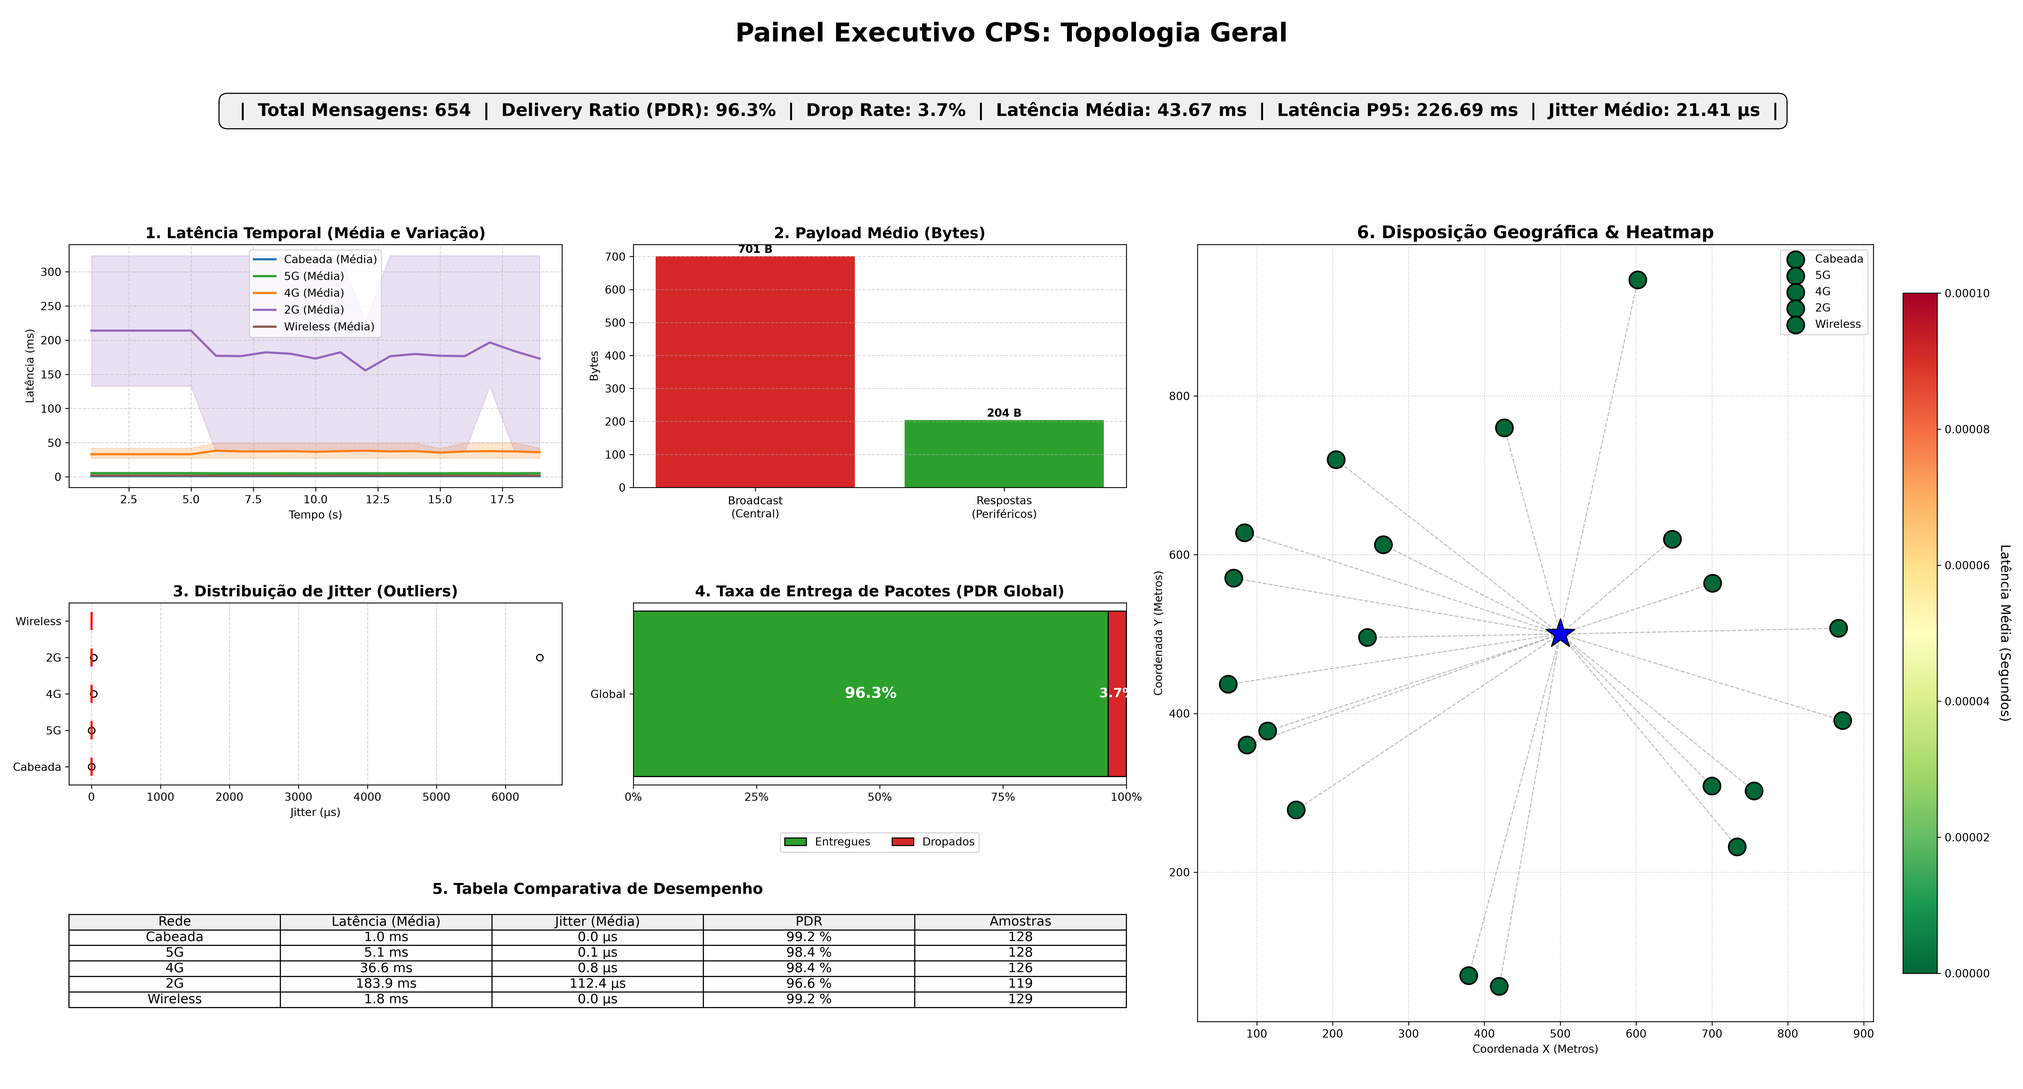
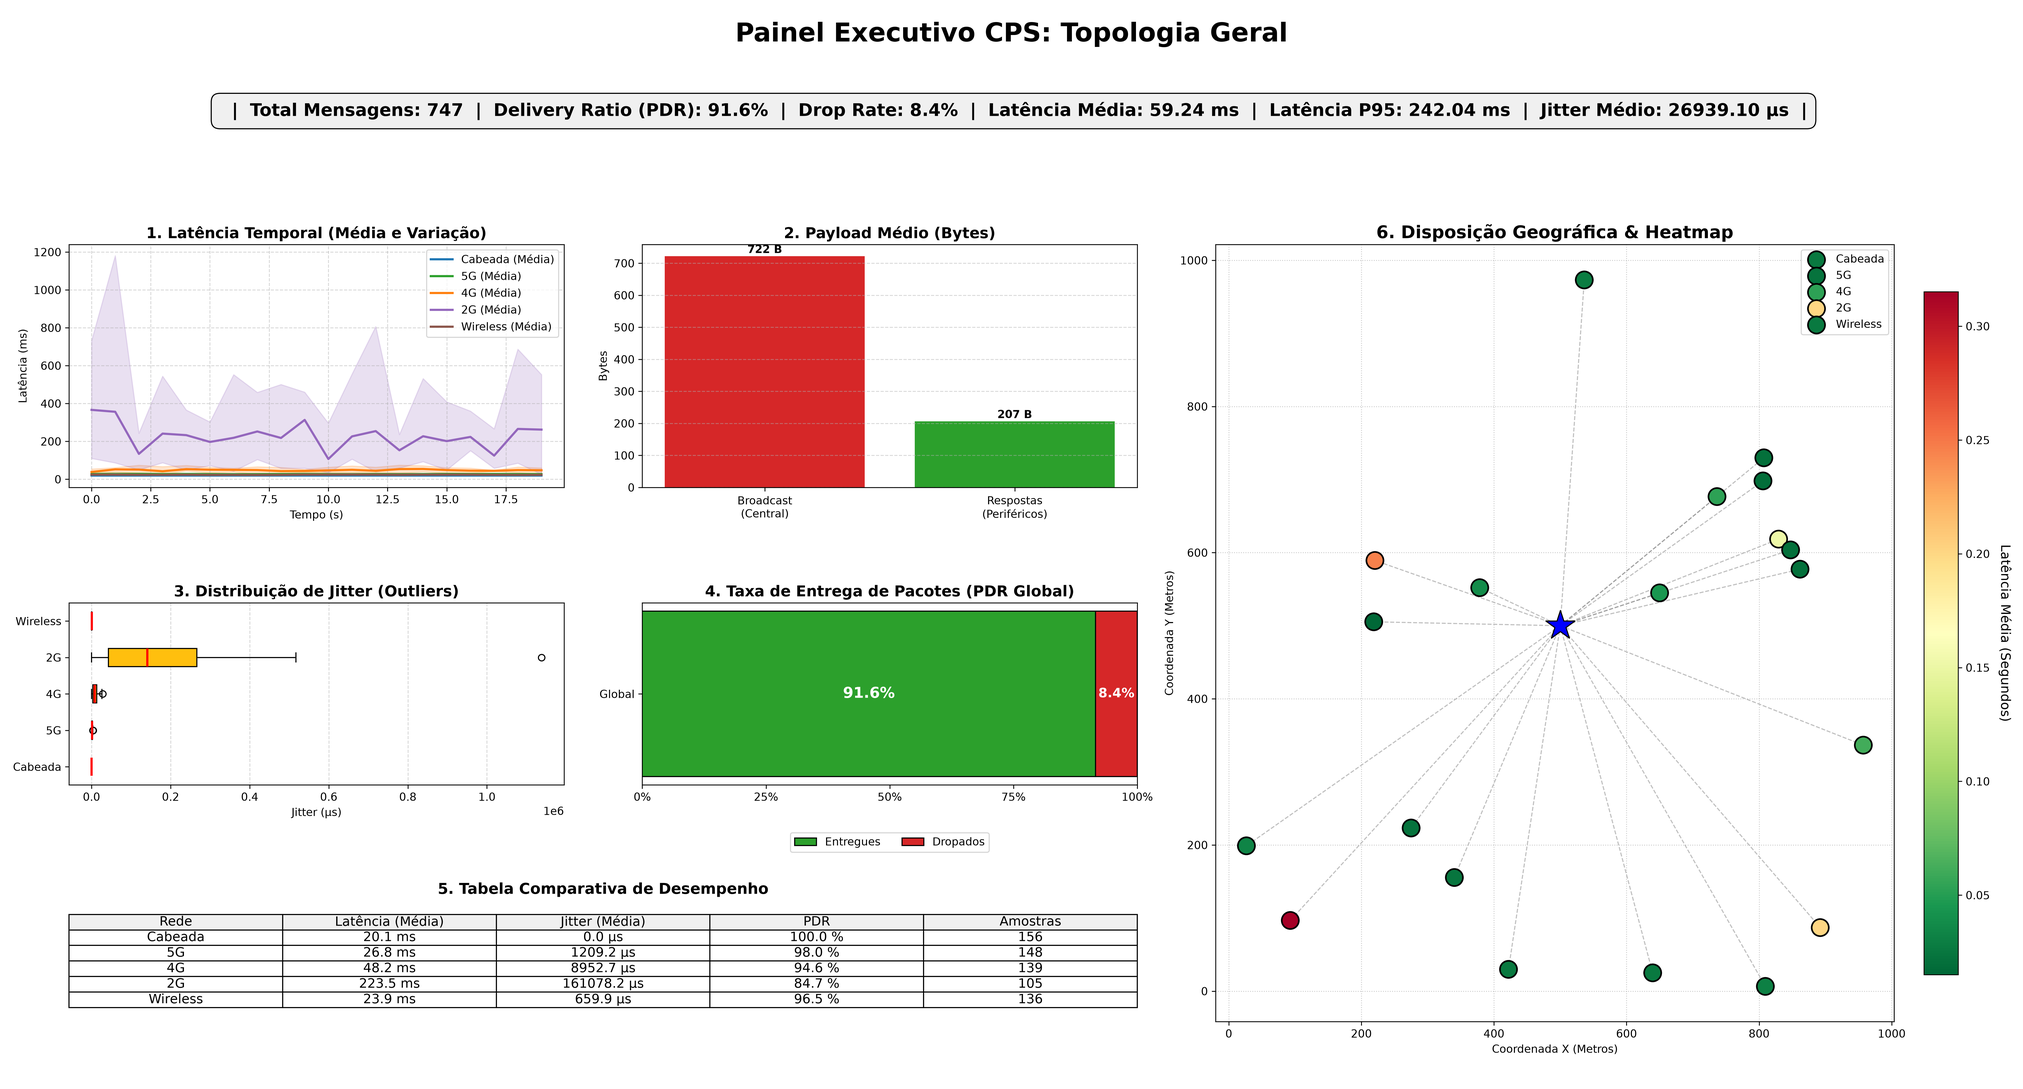
docs(tscc): update RELATORIO_FINAL_TSCC with current architecture and results across all topologies

diff --git a/master-reports/RELATORIO_FINAL_TSCC.md b/master-reports/RELATORIO_FINAL_TSCC.md
@@ -4,7 +4,7 @@ subtitle: "Time de Simulação de Comunicação e Co-simulação"
 author:
   - "Laiza Edwigens Rocha Silva e Rafael dos Santos Moura"
   - "OpenTES"
-date: "2026-10-20"
+date: "2026-10-22"
 lang: "pt-BR"
 toc: true
 toc-title: "Sumário"
@@ -55,9 +55,9 @@ pdf-engine: xelatex
 
 # Sumário Executivo
 
-O time TSCC desenvolveu, entre fevereiro e outubro de 2026, uma plataforma de co-simulação que acopla agentes PADE, o simulador de rede OMNeT++ e o orquestrador*Mosaik, executados em três containers Docker e sincronizados em lock-step via ZeroMQ. O objetivo é substituir a hipótese de comunicação ideal entre agentes por uma rede com latência, jitter, perda, filas finitas e posição geográfica.
+O time TSCC desenvolveu, entre fevereiro e outubro de 2026, uma plataforma de co-simulação que acopla agentes PADE, o simulador de rede OMNeT++ e o orquestrador Mosaik, executados em três containers Docker e sincronizados em *lock-step* via ZeroMQ. O objetivo é substituir a hipótese de comunicação ideal entre agentes por uma rede com latência, jitter, perda, filas finitas e posição geográfica.
 
-O ponto de partida era um bloqueio de infraestrutur onde o container do OMNeT++ não iniciava. Hoje a plataforma suporta topologias (estrela, malha completa e anel) escaláveis até centenas de agentes, tecnologias de enlace (Cabeada, 5G, Wireless, 4G e 2G) atribuíveis por enlace ou por agente, telemetria de alta resolução e dashboards automáticos, tudo configurável por uma interface web ou pelo terminal.
+O ponto de partida era um bloqueio de infraestrutura onde o container do OMNeT++ não iniciava. Hoje a plataforma suporta topologias (estrela, malha completa e anel bidirecional) escaláveis até centenas de agentes, tecnologias de enlace (Cabeada, 5G, Wireless, 4G e 2G) atribuíveis por enlace ou por agente, telemetria de alta resolução e dashboards automáticos, tudo configurável por uma interface web ou pelo terminal.
 
 # Introdução
 
@@ -69,11 +69,11 @@ No projeto OpenTES, o TSCC é responsável pela simulação de comunicação e c
 
 ## Motivação
 
-Em simulações de sistemas multiagentes é comum assumir mensagens instantâneas e sem perdas. Isso impede avaliar a robustez de uma estratégia sob infraestrutura real. A motivação do time foi tornar a rede uma variável experimenta: o pesquisador escolhe topologia, tecnologia de enlace e escala, e observa o efeito sobre o tráfego dos agentes. Há também uma motivação de engenharia: conectar ferramentas heterogêneas de forma reprodutível e operável por terceiros, o que levou à conteinerização e às interfaces de configuração.
+Em simulações de sistemas multiagentes é comum assumir mensagens instantâneas e sem perdas. Isso impede avaliar a robustez de uma estratégia sob infraestrutura real. A motivação do time foi tornar a rede uma variável experimental: o pesquisador escolhe topologia, tecnologia de enlace e escala, e observa o efeito sobre o tráfego dos agentes. Há também uma motivação de engenharia: conectar ferramentas heterogêneas de forma reprodutível e operável por terceiros, o que levou à conteinerização e às interfaces de configuração.
 
 ## Justificativa
 
-A camada de comunicação é o elo entre os demais times do OpenTES. Decisões tomadas nela (formato de mensagem, granularidade temporal, política de filas) condicionam como outros módulos serão acoplados. A revisão bibliográfica da equipe indicou ainda uma lacuna, o trabalho de referência na área, o COSIMA, não detalha a justificativa da estrutura de co-simulação, não compara desempenho entre topologias e não explica a conteinerização.
+A camada de comunicação é o elo entre os demais times do OpenTES. Decisões tomadas nela (formato de mensagem, granularidade temporal, política de filas) condicionam como outros módulos serão acoplados. A revisão bibliográfica da equipe indicou ainda uma lacuna: o trabalho de referência na área, o COSIMA, não detalha a justificativa da estrutura de co-simulação, não compara desempenho entre topologias e não explica a conteinerização.
 
 ## Objetivos
 
@@ -92,9 +92,10 @@ Construir e documentar uma plataforma de co-simulação PADE + OMNeT++ + Mosaik 
 
 # Estado da Arte e Revisão Bibliográfica
 
-A revisão concentrou-se na família de trabalhos do COSIMA, que acopla o Mosaik ao OMNeT++ para simular a infraestrutura de comunicação de sistemas de energia. O ponto de partida técnico da equipe foi reproduzir o exemplo do COSIMA em containers. A versão atual não depende do COSIMA, o acoplamento Mosaik–OMNeT++ foi reescrito sobre ZeroMQ, com criação dinâmica de nós a partir de um arquivo NED gerado em tempo de execução.
+A revisão concentrou-se na família de trabalhos do COSIMA, que acopla o Mosaik ao OMNeT++ para simular a infraestrutura de comunicação de sistemas de energia. O ponto de partida técnico da equipe foi reproduzir o exemplo do COSIMA em containers. A versão atual não depende do COSIMA: o acoplamento Mosaik–OMNeT++ foi reescrito sobre ZeroMQ, com criação dinâmica de nós a partir de um arquivo NED gerado em tempo de execução.
 
 O artigo *cosima-mango: Investigating Multi-Agent System robustness through integrated communication simulation* foi revisado em detalhe, com foco na comparação entre os frameworks de SMA PADE e Mango. A Tabela 1 resume a comparação feita pela equipe.
+
 | Critério | PADE | Mango |
 |---|---|---|
 | Foco | Redes elétricas inteligentes | Propósito geral |
@@ -115,13 +116,13 @@ O desenvolvimento foi incremental, com ciclos semanais de implementação, teste
 
 | Componente | Papel | Versão / observação |
 |---|---|---|
-| PADE | Agentes FIPA-ACL | `pade-agents==0.1.3`; Twisted 24.7.0 |
+| PADE | Agentes FIPA-ACL | `pade-agents`; Twisted 24.7.0 |
 | Mosaik | Orquestração e tempo simulado | 3.6.0; `mosaik-api-v3` 3.0.14 |
 | OMNeT++ | Simulação de rede | Imagem `omnetpp/omnetpp:u22.04-6.0` |
-| ZeroMQ | Transporte Mosaik–OMNeT++ | `pyzmq` 27.1.0 e 26.0.3; `cppzmq` |
+| ZeroMQ | Transporte Mosaik–OMNeT++ | `pyzmq` 27.1.0; `cppzmq` |
 | `nlohmann/json` | Serialização no lado C++ | Pacote do Ubuntu 22.04 |
-| Docker Compose | Orquestração de 3 containers na rede `sim_net` | Python 3.12 nos containers Python |
-| Streamlit, Plotly, Matplotlib | Interface web, dashboards e suíte `pytest` | Pré-instalados nos Dockerfiles e validados em Python 3.12 |
+| Docker Compose | Orquestração de 3 containers (`pade`, `omnet_sim`, `mosaik_master`) | Namespace de rede compartilhado (`service:pade`) |
+| Streamlit, Plotly, Matplotlib | Interface web, CLI, dashboards e suíte `pytest` | Pré-instalados nos Dockerfiles e validados em Python 3.12 |
 
 Table: Ferramentas e versões utilizadas no repositório.
 
@@ -142,10 +143,10 @@ A Figura 1 apresenta a arquitetura. Os agentes PADE enviam mensagens com `send()
                              |
                    results.csv + dashboards
 \end{verbatim}
-\caption{Arquitetura da co-simulação: três containers na rede Docker \texttt{sim\_net}, configurados por variáveis de ambiente (\texttt{TOPOLOGY}, \texttt{NUM\_PERIFERICOS}, \texttt{TIPOS\_REDE}, \texttt{RANDOM\_SEED}) definidas pela interface web ou pelo CLI.}
+\caption{Arquitetura da co-simulação: três containers integrados via namespace de rede compartilhado (\texttt{service:pade}), configurados por variáveis de ambiente (\texttt{TOPOLOGY}, \texttt{NUM\_PERIFERICOS}, \texttt{TIPOS\_REDE}, \texttt{RANDOM\_SEED}) definidas pela interface web ou pelo CLI.}
 \end{figure}
 
-O `MosaikBridge.cc` mantém um socket ZeroMQ `REP` bloqueante. A cada passo, o `omnet_wrapper.py` envia as entradas, o OMNeT++ avança um tick (`scheduleAt(simTime()+timeResolution)`) e responde com as saídas, o passo atual e a telemetria. Como cada lado espera a resposta do outro, o sincronismo é garantido por construção. O `scenario.py` lê `TOPOLOGY`, `NUM_PERIFERICOS`, `TIPOS_REDE` e `RANDOM_SEED`, sorteia as posições em uma área de 1000 × 1000 m, persiste `posicoes.json`, `links.json` e `config.json`, gera o `DynamicNetwork.ned` e cria as entidades no Mosaik.
+O `MosaikBridge.cc` mantém um socket ZeroMQ `REP` bloqueante. A cada passo, o `omnet_wrapper.py` envia as entradas, o OMNeT++ avança um tick (`scheduleAt(simTime()+timeResolution)`) e responde com as saídas, o passo atual e a telemetria. Como cada lado espera a resposta do outro, o sincronismo é garantido por construção. Os containers `omnet_sim` e `mosaik_master` compartilham o namespace de rede do container `pade` (`network_mode: "service:pade"`), comunicando-se via loopback (`127.0.0.1`), o que assegura compatibilidade tanto em ambientes Docker locais quanto em ambientes em nuvem como o GitHub Codespaces. O `scenario.py` lê `TOPOLOGY`, `NUM_PERIFERICOS`, `TIPOS_REDE` e `RANDOM_SEED`, sorteia as posições em uma área de 1000 × 1000 m (ou em círculo de raio 350 m no anel), persiste `posicoes.json`, `links.json` e `config.json`, gera o `DynamicNetwork.ned` e cria as entidades no Mosaik.
 
 ## Topologias e perfis de enlace
 
@@ -155,7 +156,7 @@ O `MosaikBridge.cc` mantém um socket ZeroMQ `REP` bloqueante. A cada passo, o `
 | Malha completa | N *peers* (`NUM_PERIFERICOS`) | $N(N-1)/2$ | Todos enviam a todos a cada passo |
 | Anel | N *peers* (`NUM_PERIFERICOS`) | N (ciclo fechado) | Cada agente envia aos dois vizinhos |
 
-Table: Topologias suportadas (semântica unificada na branch `fix/validacao-e-consistencia`).
+Table: Topologias suportadas pela plataforma.
 
 | Perfil | Banda | Atraso | PER (canal) |
 |---|---|---|---|
@@ -169,7 +170,7 @@ Table: Perfis de enlace definidos em `Profiles.ned`. Os tipos são atribuídos c
 
 ## Modelo de rede implementado no nó
 
-O módulo `AgentNode.cc` implementa: (i) fila de transmissão por porta, limitada a 5 pacotes, com descarte do excedente; (ii) descarte no receptor tanto por erro de bit nativo do canal, regido pelo PER quanto por atenuação espacial dependente de distância e tamanho; (iii) atraso adicional por distância e ruído de jitter sobre o atraso-base em canais `cDatarateChannel` e `cDelayChannel`; e (iv) telemetria por pacote, exportada em strings multiplexadas com `|||`. Em notação simplificada, com $d$ em metros e $S$ em bytes:
+O módulo `AgentNode.cc` implementa: (i) fila de transmissão por porta, limitada a 5 pacotes, com descarte do excedente; (ii) descarte no receptor tanto por erro de bit nativo do canal, regido pelo PER, quanto por atenuação espacial dependente de distância e tamanho; (iii) atraso adicional por distância e ruído de jitter sobre o atraso-base em canais `cDatarateChannel` e `cDelayChannel`; e (iv) telemetria por pacote, exportada em strings multiplexadas com `|||`. Em notação simplificada, com $d$ em metros e $S$ em bytes:
 
 $$
 P_{\text{drop,dist}} = \min\!\left(0{,}99;\ \frac{d}{100}\,0{,}015\,\max\!\left(1;\frac{S}{15000}\right)\right),
@@ -189,28 +190,68 @@ em que $R$ é a taxa do canal, $d_{\text{canal}}$ o atraso do perfil NED e $\eta
 | Abr. | Contador de passos e `time_resolution`; ciclo de realimentação `time_shifted`; modo híbrido (eventos não persistentes) no PADE; Mosaik 3.6.0; ciclo "ping-pong" bidirecional com latência $10\,\text{ms}+\text{bits}/\text{banda}$ |
 | Mai. | Banda configurável, perda e jitter estocásticos; topologia estrela (`pade_star.py`); telemetria multiplexada; protótipo de CLI; estudo de parâmetros 5G e Wi-Fi |
 | Mai.–jun. | Migração para FIPA nativo (`send()`/`react()`), com filas anti-sobrescrita; NED elástico; canais `DatarateChannel` heterogêneos; início do artigo |
-| Jul. | Revisão bibliográfica; nós independentes com filas e rajadas (*bursts*); roteamento pelo campo `receivers`; 50+ agentes via variável de ambiente; perfis 4G/5G/IoT |
+| Jul. | Revisão bibliográfica; nós independentes com filas e rajadas (*bursts*); roteamento pelo campo `receivers`; 50+ agentes via variável de ambiente; perfis 4G/5G/2G |
 | Ago. | Posicionamento geográfico e atraso/descarte por distância; dashboards refatorados; topologias malha e anel; menu e interface Streamlit |
-| Set.–out. | Anel escalável; ícones SVG, tecnologia por agente, aba de resultados; documentação Diátaxis iniciada; **auditoria, correção de inconsistências e suíte de validação automatizada (`pytest`)** |
+| Set.–out. | Anel escalável; ícones SVG, tecnologia por agente, aba de resultados; consolidação do orquestrador `scenario.py`, rede compartilhada no Docker e suíte de validação automatizada (`pytest`) |
 
 Table: Cronologia sintética (detalhes nos *short-reports* semanais).
 
-Dois problemas relevantes foram resolvidos ao longo do desenvolvimento inicial: a **perda de mensagens por concorrência temporal** (resolvida com a fila delimitada por `|||` nos dois lados) e o **gargalo do canal ocupado** em rajadas (resolvido com filas reais no C++ e descoberta automática da identidade do nó via `getName()`).
+Dois problemas relevantes foram resolvidos ao longo da construção da plataforma: a **perda de mensagens por concorrência temporal** (resolvida com a fila delimitada por `|||` nos dois lados) e o **gargalo do canal ocupado** em rajadas (resolvido com filas reais `cPacketQueue` no C++ e descoberta automática da identidade do nó via `getName()`).
 
+## Resultados experimentais nas três topologias
+
+Para caracterizar o funcionamento da ferramenta nas três topologias suportadas, foram executadas co-simulações de 20 passos (`SIM_STEPS=20`, `RANDOM_SEED=42`) combinando as cinco tecnologias de enlace (`Link_Wired`, `Link_5G`, `Link_4G`, `Link_2G` e `Link_Wireless`) distribuídas ciclicamente entre os enlaces. As Figuras 2, 3 e 4 apresentam os dashboards gerados automaticamente pelos módulos `plot_results_star.py`, `plot_results_malha.py` e `plot_results_anel.py`.
+
+![Dashboard da topologia Estrela (1 central + 20 periféricos = 21 agentes, 20 enlaces, 20 passos; 747 mensagens enviadas, 684 entregues e 63 descartadas).](figures/tscc/dashboard_estrela_n20.png){ width=96% }
+
+![Dashboard da topologia Malha Completa (5 agentes peers, 10 enlaces bidirecionais, 20 passos; 400 mensagens enviadas, 364 entregues e 36 descartadas).](figures/tscc/dashboard_malha_n5.png){ width=92% }
+
+![Dashboard da topologia Anel Bidirecional (5 agentes peers em ciclo fechado, 5 enlaces, 20 passos; 200 mensagens enviadas, 175 entregues e 25 descartadas).](figures/tscc/dashboard_anel_n5.png){ width=92% }
+
+A Tabela 5 detalha as métricas obtidas por tecnologia de enlace na topologia Estrela ($N=20$), e a Tabela 6 sintetiza os resultados globais das três topologias.
+
+| Rede | Latência média | Jitter médio | PDR (Taxa de entrega) | Amostras (pacotes entregues) |
+|---|---:|---:|---:|---:|
+| Cabeada | 20,1 ms | 0,0 µs | 100,0% | 156 |
+| Wireless | 23,9 ms | 659,9 µs | 96,5% | 136 |
+| 5G | 26,8 ms | 1.209,2 µs | 98,0% | 148 |
+| 4G | 48,2 ms | 8.952,7 µs | 94,6% | 139 |
+| 2G | 223,5 ms | 161.078,2 µs | 84,7% | 105 |
+| **Global (Estrela)** | **59,24 ms** (P95: 242,04 ms) | **26.939,10 µs** | **91,6%** | **684** (de 747 enviados) |
+
+Table: Desempenho por tecnologia de enlace na topologia Estrela ($N=20$, 20 passos, `RANDOM_SEED=42`).
+
+| Topologia | Agentes / Enlaces | Enviados | Recebidos | Descartados | PDR Global | Latência média (P95) | Jitter médio | Payload médio |
+|---|---:|---:|---:|---:|---:|---:|---:|---:|
+| **Estrela** ($N=20$) | 21 / 20 | 747 | 684 | 63 | 91,6% | 59,24 ms (242,04 ms) | 26.939,1 µs | 481,6 B |
+| **Malha** ($N=5$) | 5 / 10 | 400 | 364 | 36 | 91,0% | 66,79 ms (279,81 ms) | 27.923,4 µs | 299,8 B |
+| **Anel** ($N=5$) | 5 / 5 | 200 | 175 | 25 | 87,5% | 75,55 ms (280,35 ms) | 46.010,1 µs | 249,0 B |
+
+Table: Resultados consolidados nas três topologias suportadas (20 passos, `RANDOM_SEED=42`).
 
 ## Discussão
 
+**Diferenciação física entre os perfis de enlace.** Os resultados da Tabela 5 confirmam a aderência do modelo implementado em `AgentNode.cc` e `Profiles.ned` às características físicas de cada tecnologia. A rede **Cabeada** apresenta latência média de 20,1 ms (1,0 ms base somado ao atraso de propagação espacial de $50\,\mu\text{s/m}$ no grid de $1000\times 1000\text{ m}$), jitter nulo (0,0 µs, dado que o atraso-base não excede 1,5 ms) e entrega integral (100,0% de PDR). Os enlaces **Wireless** e **5G** operam com baixa latência (23,9 ms e 26,8 ms), jitter reduzido (0,66 ms a 1,21 ms) e PDR elevado (96,5% a 98,0%). Já o perfil **4G** apresenta latência intermediária de 48,2 ms e jitter de 8,95 ms (PDR de 94,6%), enquanto o canal **2G** (250 kbps, atraso exponencial de 200 ms e PER de 15%) concentra a maior degradação da rede, com latência média de 223,5 ms, jitter de 161,1 ms e queda da taxa de entrega para 84,7%.
 
+**Comportamento por topologia e conservação de pacotes.** Nas três topologias observa-se conservação exata entre pacotes enviados, recebidos e descartados ($684+63=747$ na estrela; $364+36=400$ na malha; $175+25=200$ no anel). Na topologia **Estrela**, o tráfego converge no agente central, que dispara 20 requisições por passo e recebe as confirmações `INFORM` dos periféricos cujas mensagens superam as perdas de enlace. Na **Malha Completa** ($N=5$), todos os agentes atuam como *peers* simétricos trocando mensagens ponto a ponto sobre os 10 enlaces físicos ($5\times 4\times 20 = 400$ envios). No **Anel Bidirecional** ($N=5$), a comunicação restrita aos dois vizinhos imediatos em ciclo fechado gera 200 transmissões distribuídas igualmente sobre os 5 enlaces.
 
+**Granularidade temporal.** Cada passo do Mosaik corresponde a 1 s simulado, enquanto as latências típicas situam-se na escala de dezenas a centenas de milissegundos. Como os agentes recebem as mensagens no passo seguinte (`time_shifted=True`), as variações de latência e jitter são integralmente registradas na telemetria física do OMNeT++, enquanto o efeito direto sobre a dinâmica de decisão dos agentes PADE ocorre sobretudo por meio do descarte de pacotes.
 
 # Conclusão
 
+Os objetivos estabelecidos para o TSCC foram integralmente alcançados. A plataforma integra PADE, Mosaik e OMNeT++ em containers Docker sincronizados via ZeroMQ (Objetivo 1), modela latência, jitter, perda de pacotes por canal e por distância e filas finitas em cinco tecnologias de enlace (Objetivo 2), suporta geração dinâmica e escalável das topologias estrela, malha completa e anel bidirecional (Objetivo 3), fornece telemetria detalhada em CSV e dashboards automáticos por tecnologia e topologia (Objetivo 4), e dispõe de interfaces de configuração via navegador (`menu-streamlit.py`) e terminal (`menu.py`), além de suíte de testes automatizados com `pytest` (Objetivo 5).
+
+Como próximos passos do projeto, destacam-se:
+
+1. **Execução de campanhas experimentais multi-semente** (variando `RANDOM_SEED`) para consolidação estatística dos resultados no artigo científico em elaboração (Objetivo 6).
+2. **Refinamento da resolução temporal (`time_resolution` sub-segundo) e implementação de fragmentação por MTU**, ampliando a sensibilidade da co-simulação a atrasos sub-segundo e payloads extensos.
+3. **Acoplamento da plataforma de comunicação aos módulos dos demais times do OpenTES** (TSRE, TSDQ e TTESO), permitindo avaliar algoritmos de mercado transativo e controle de redes elétricas sob condições realistas de comunicação.
 
 # Referências
 
-[1] OPENTES. *Repositório geral do projeto* (inclui os *short-reports* semanais do TSCC, 20/02 a 02/10/2026). Disponível em: <https://github.com/grei-ufc/general-opentes>. Acesso em: 20 out. 2026.
+[1] OPENTES. *Repositório geral do projeto* (inclui os *short-reports* semanais do TSCC, 20/02 a 02/10/2026). Disponível em: <https://github.com/grei-ufc/general-opentes>. Acesso em: 22 out. 2026.
 
-[2] GREI-UFC. *tscc-com-opentes: co-simulação PADE + OMNeT++ + Mosaik* (branch `development`, commit `1309b9a`, e branch `fix/validacao-e-consistencia`). Disponível em: <https://github.com/grei-ufc/tscc-com-opentes>. Acesso em: 20 out. 2026.
+[2] GREI-UFC. *tscc-com-opentes: co-simulação PADE + OMNeT++ + Mosaik* (branch `development`). Disponível em: <https://github.com/grei-ufc/tscc-com-opentes>. Acesso em: 22 out. 2026.
 
 [3] MOSAIK. *Mosaik: smart grid co-simulation framework*. Disponível em: <https://mosaik.offis.de>.
 
